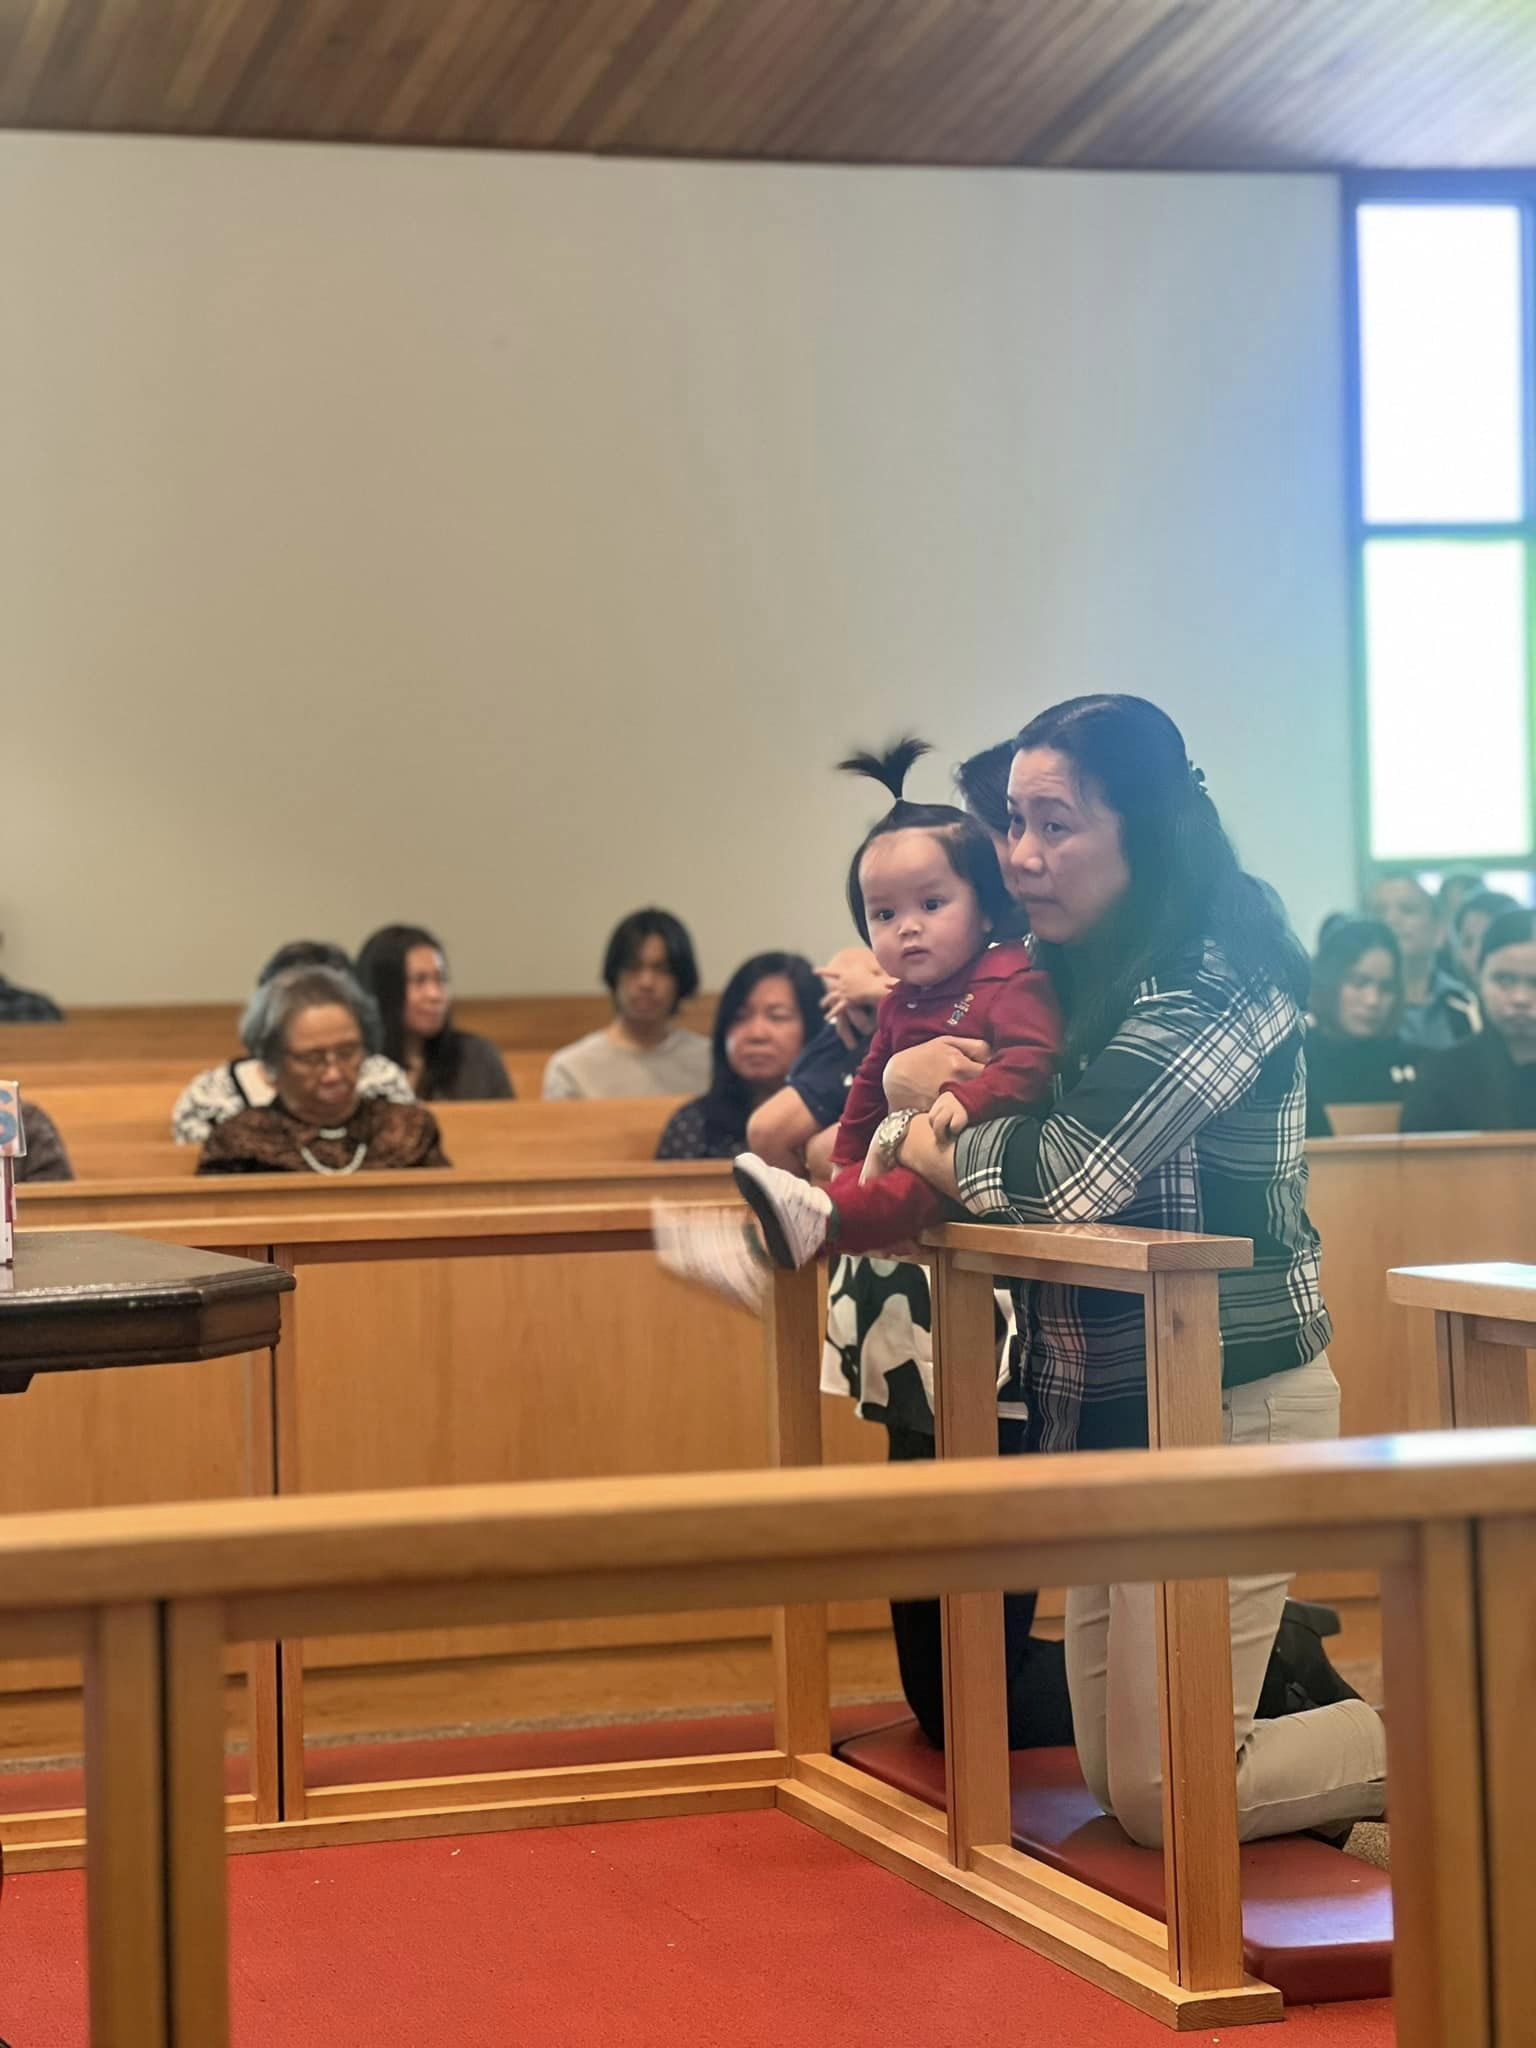
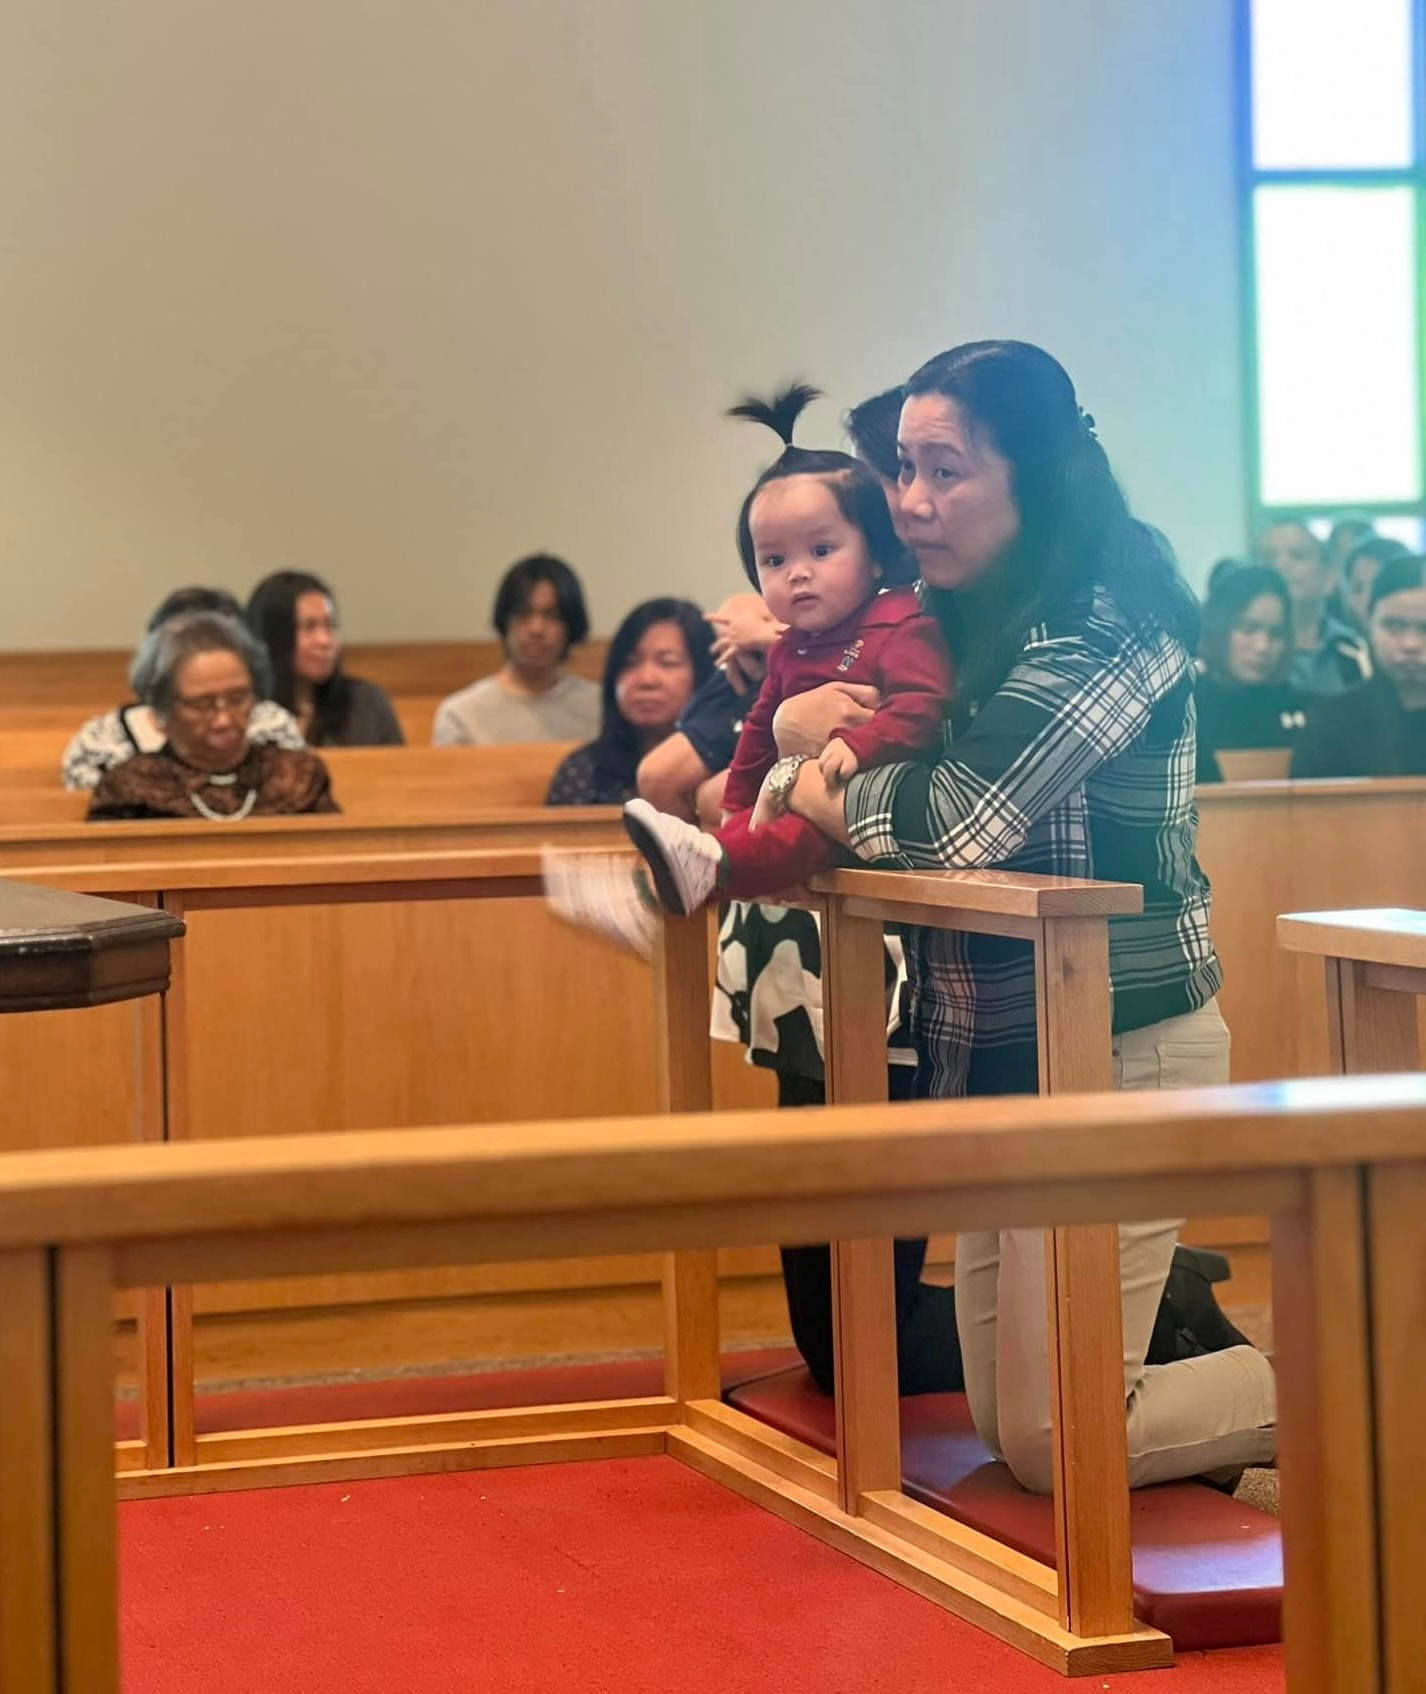
updated featured images

diff --git a/frontend/src/components/core/hero/HeroCollage.tsx b/frontend/src/components/core/hero/HeroCollage.tsx
@@ -58,18 +58,6 @@ const HeroCollage: FC = () => {
               containerClassName={featuredImage.containerClassName}
             />
           ))}
-          {/* <ImageCollageItem
-            key={"feature-image-1"}
-            src={"/featured/header/2.jpg"}
-            alt={"featured Image 1"}
-            containerClassName={"col-span-2 row-span-1"}
-          />
-          <ImageCollageItem
-            key={"feature-image-1"}
-            src={"/featured/header/8.jpeg"}
-            alt={"featured Image 2"}
-            containerClassName={"col-span-1 row-span-1"}
-          /> */}
         </div>
       </div>
     </div>

diff --git a/frontend/src/data/hero/featuredItems.ts b/frontend/src/data/hero/featuredItems.ts
@@ -4,9 +4,14 @@ export const featuredImages: {
   containerClassName: string;
 }[] = [
   {
-    src: "/featured/header/2.jpg",
+    src: "/featured/header/17.jpeg",
     alt: "featured image 1",
-    containerClassName: "col-span-2 row-span-1",
+    containerClassName: "col-span-1 row-span-1",
+  },
+  {
+    src: "/featured/header/1.jpeg",
+    alt: "featured image 1",
+    containerClassName: "col-span-1 row-span-1",
   },
   {
     src: "/featured/header/8.jpeg",

diff --git a/frontend/src/components/core/gallery/ImageCollageItem.tsx b/frontend/src/components/core/gallery/ImageCollageItem.tsx
@@ -21,7 +21,7 @@ const ImageCollageItem: FC<ImageCollageItemProps> = ({
         alt={alt}
         fill={true}
         style={{ objectFit: "cover" }}
-        className="rounded-lg object-center"
+        className="rounded-lg object-top"
       />
     </div>
   );
